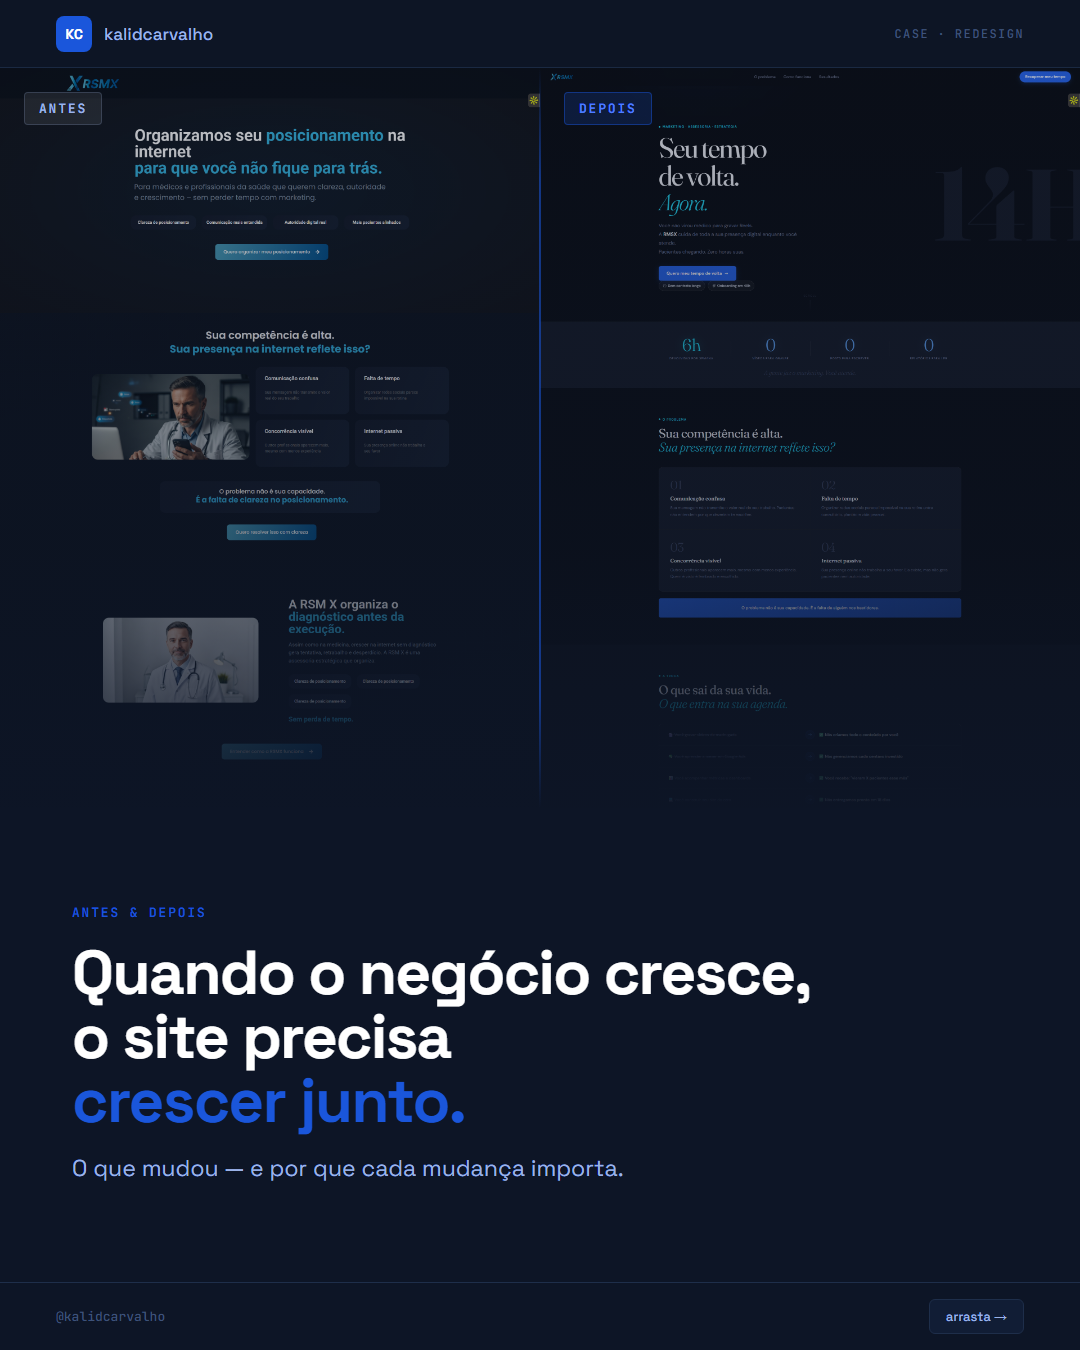
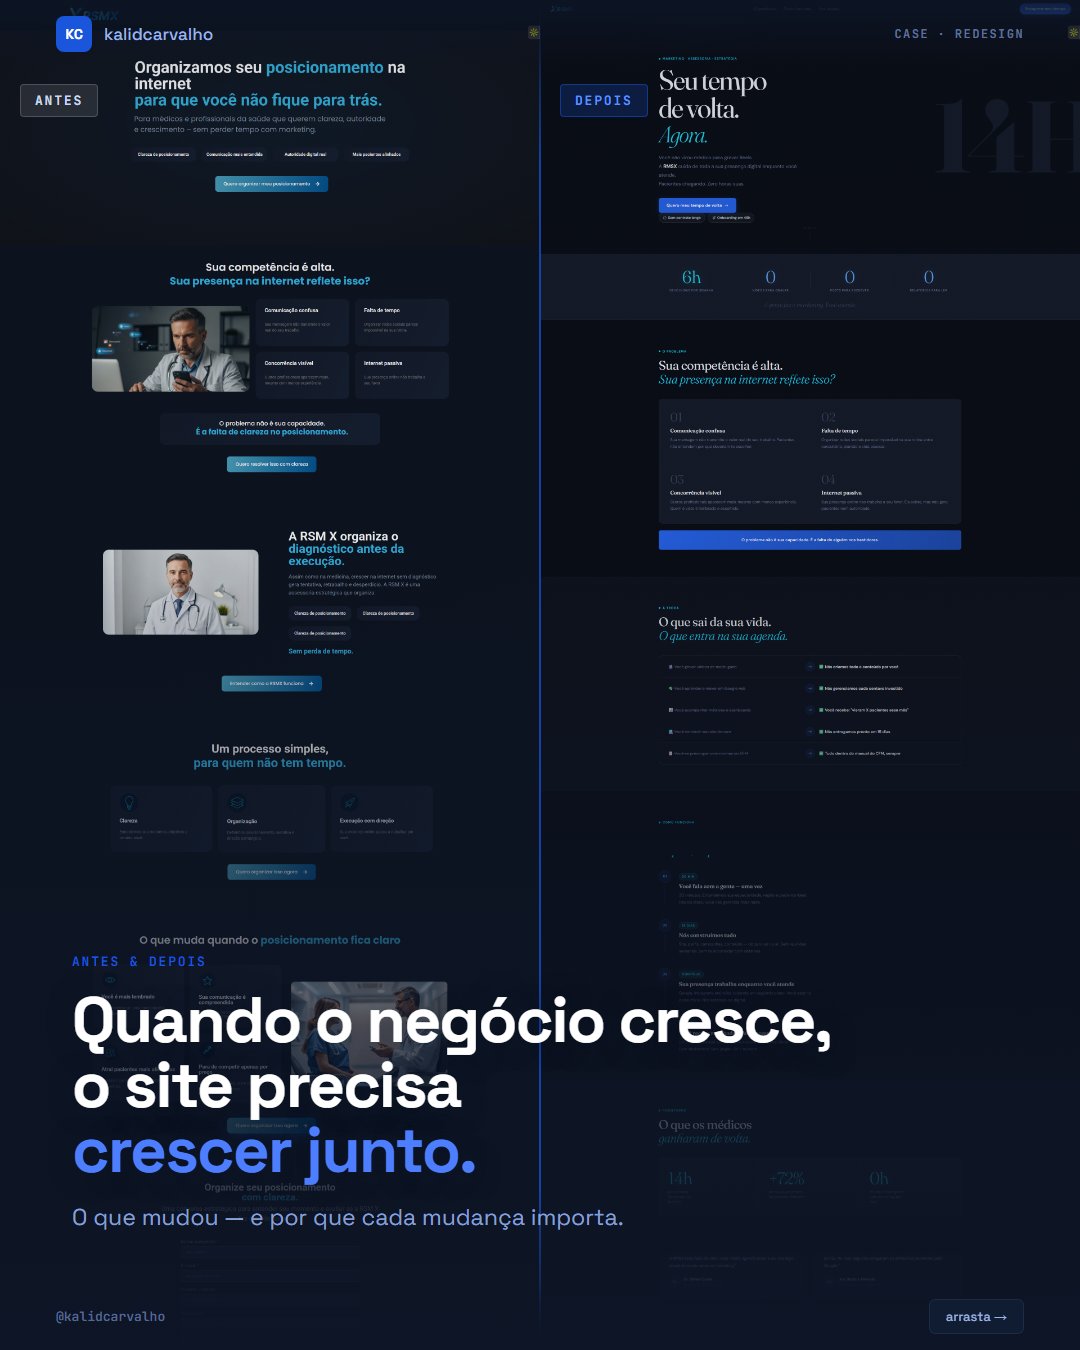
auto-sync: 2026-04-17 20:18

diff --git a/conteudo/kalidcarvalho/carrosseis/2026-04-17/instagram/slide-01.html b/conteudo/kalidcarvalho/carrosseis/2026-04-17/instagram/slide-01.html
@@ -20,7 +20,85 @@
     position: relative;
   }
 
-  /* TOP BAR */
+  /* SPLIT SCREEN — full cover */
+  .split-wrapper {
+    position: absolute;
+    inset: 0;
+    display: flex;
+  }
+
+  .split-side {
+    flex: 1;
+    position: relative;
+    overflow: hidden;
+  }
+
+  .split-side img {
+    width: 100%;
+    height: 100%;
+    object-fit: cover;
+    object-position: top center;
+    display: block;
+  }
+
+  /* leve escurecimento no topo, forte no rodapé para o texto */
+  .split-side .overlay {
+    position: absolute;
+    inset: 0;
+    background: linear-gradient(
+      to bottom,
+      rgba(13, 21, 38, 0.15) 0%,
+      rgba(13, 21, 38, 0.10) 40%,
+      rgba(13, 21, 38, 0.55) 65%,
+      rgba(13, 21, 38, 0.96) 100%
+    );
+  }
+
+  /* label ANTES / DEPOIS */
+  .site-label {
+    position: absolute;
+    top: 84px;
+    left: 20px;
+    font-family: 'JetBrains Mono', monospace;
+    font-size: 13px;
+    font-weight: 700;
+    letter-spacing: 0.14em;
+    text-transform: uppercase;
+    padding: 7px 14px;
+    border-radius: 4px;
+    z-index: 2;
+  }
+
+  .split-side.antes .site-label {
+    background: rgba(255,255,255,0.10);
+    color: #C8D8F0;
+    border: 1px solid rgba(200, 216, 240, 0.22);
+  }
+
+  .split-side.depois .site-label {
+    background: rgba(26, 86, 219, 0.22);
+    color: #5B8FFF;
+    border: 1px solid rgba(26, 86, 219, 0.50);
+  }
+
+  /* divider */
+  .divider {
+    position: absolute;
+    top: 0;
+    left: calc(50% - 1px);
+    width: 2px;
+    height: 100%;
+    background: linear-gradient(
+      to bottom,
+      transparent 0%,
+      rgba(26,86,219,0.70) 12%,
+      rgba(26,86,219,0.70) 88%,
+      transparent 100%
+    );
+    z-index: 5;
+  }
+
+  /* TOP BAR — flutuando */
   .top-bar {
     position: absolute;
     top: 0; left: 0; right: 0;
@@ -29,9 +107,8 @@
     display: flex;
     align-items: center;
     justify-content: space-between;
-    z-index: 10;
-    background: rgba(13, 21, 38, 0.90);
-    border-bottom: 1px solid rgba(30, 46, 74, 0.8);
+    z-index: 20;
+    background: linear-gradient(to bottom, rgba(13,21,38,0.88) 0%, transparent 100%);
   }
 
   .logo {
@@ -64,99 +141,18 @@
     font-family: 'JetBrains Mono', monospace;
     font-size: 12px;
     font-weight: 600;
-    color: #3D527A;
+    color: rgba(155,179,232,0.60);
     letter-spacing: 0.12em;
     text-transform: uppercase;
   }
 
-  /* SPLIT SCREEN */
-  .split-wrapper {
-    position: absolute;
-    top: 68px;
-    left: 0; right: 0;
-    height: 740px;
-    display: flex;
-  }
-
-  .split-side {
-    flex: 1;
-    position: relative;
-    overflow: hidden;
-  }
-
-  .split-side img {
-    width: 100%;
-    height: 100%;
-    object-fit: cover;
-    object-position: top center;
-    display: block;
-  }
-
-  .split-side .overlay {
-    position: absolute;
-    inset: 0;
-    background: linear-gradient(
-      to bottom,
-      rgba(13, 21, 38, 0.25) 0%,
-      rgba(13, 21, 38, 0.50) 65%,
-      rgba(13, 21, 38, 0.95) 100%
-    );
-  }
-
-  .site-label {
-    position: absolute;
-    top: 24px;
-    left: 24px;
-    font-family: 'JetBrains Mono', monospace;
-    font-size: 13px;
-    font-weight: 700;
-    letter-spacing: 0.14em;
-    text-transform: uppercase;
-    padding: 7px 14px;
-    border-radius: 4px;
-    z-index: 2;
-  }
-
-  .split-side.antes .site-label {
-    background: rgba(255,255,255,0.08);
-    color: #9BB3E8;
-    border: 1px solid rgba(155, 179, 232, 0.20);
-  }
-
-  .split-side.depois .site-label {
-    background: rgba(26, 86, 219, 0.18);
-    color: #4D7EFF;
-    border: 1px solid rgba(26, 86, 219, 0.45);
-  }
-
-  /* divider line */
-  .divider {
-    position: absolute;
-    top: 68px;
-    left: calc(50% - 1px);
-    width: 2px;
-    height: 740px;
-    background: linear-gradient(
-      to bottom,
-      transparent 0%,
-      #1A56DB 15%,
-      #1A56DB 85%,
-      transparent 100%
-    );
-    z-index: 5;
-    opacity: 0.55;
-  }
-
-  /* TEXT AREA */
+  /* TEXT AREA — sobreposto no fundo */
   .text-area {
     position: absolute;
-    top: 808px;
-    left: 0; right: 0;
     bottom: 68px;
-    display: flex;
-    flex-direction: column;
-    justify-content: center;
-    padding: 0 72px;
+    left: 0; right: 0;
+    padding: 0 72px 48px;
+    z-index: 15;
   }
 
   .tag {
@@ -166,31 +162,32 @@
     color: #1A56DB;
     text-transform: uppercase;
     letter-spacing: 0.14em;
-    margin-bottom: 20px;
-  }
-
-  .headline {
-    font-size: 62px;
-    font-weight: 700;
-    line-height: 1.03;
-    color: #FFFFFF;
-    letter-spacing: -1.6px;
     margin-bottom: 18px;
   }
 
+  .headline {
+    font-size: 64px;
+    font-weight: 700;
+    line-height: 1.02;
+    color: #FFFFFF;
+    letter-spacing: -1.8px;
+    margin-bottom: 16px;
+    text-shadow: 0 2px 24px rgba(13,21,38,0.6);
+  }
+
   .headline em {
-    color: #1A56DB;
+    color: #4D7EFF;
     font-style: normal;
   }
 
   .subtitle {
     font-size: 23px;
     font-weight: 400;
-    color: #9BB3E8;
+    color: rgba(155,179,232,0.90);
     line-height: 1.5;
   }
 
-  /* BOTTOM BAR */
+  /* BOTTOM BAR — flutuando */
   .bottom-bar {
     position: absolute;
     bottom: 0; left: 0; right: 0;
@@ -199,37 +196,30 @@
     display: flex;
     align-items: center;
     justify-content: space-between;
-    border-top: 1px solid #1E2E4A;
-    z-index: 10;
+    z-index: 20;
+    background: linear-gradient(to top, rgba(13,21,38,0.88) 0%, transparent 100%);
   }
 
   .handle {
     font-family: 'JetBrains Mono', monospace;
     font-size: 13px;
     font-weight: 500;
-    color: #3D527A;
+    color: rgba(155,179,232,0.55);
   }
 
   .swipe-tag {
     font-size: 13px;
     font-weight: 500;
     color: #9BB3E8;
-    background: #111D35;
-    border: 1px solid #1E2E4A;
+    background: rgba(17,29,53,0.85);
+    border: 1px solid rgba(30,46,74,0.9);
     border-radius: 6px;
     padding: 8px 16px;
+    backdrop-filter: blur(4px);
   }
 </style>
 </head>
 <body>
-
-  <div class="top-bar">
-    <div class="logo">
-      <div class="logo-mark">KC</div>
-      <span class="logo-name">kalidcarvalho</span>
-    </div>
-    <span class="slide-label">Case · Redesign</span>
-  </div>
 
   <div class="split-wrapper">
     <div class="split-side antes">
@@ -245,6 +235,14 @@
   </div>
 
   <div class="divider"></div>
+
+  <div class="top-bar">
+    <div class="logo">
+      <div class="logo-mark">KC</div>
+      <span class="logo-name">kalidcarvalho</span>
+    </div>
+    <span class="slide-label">Case · Redesign</span>
+  </div>
 
   <div class="text-area">
     <div class="tag">antes &amp; depois</div>
